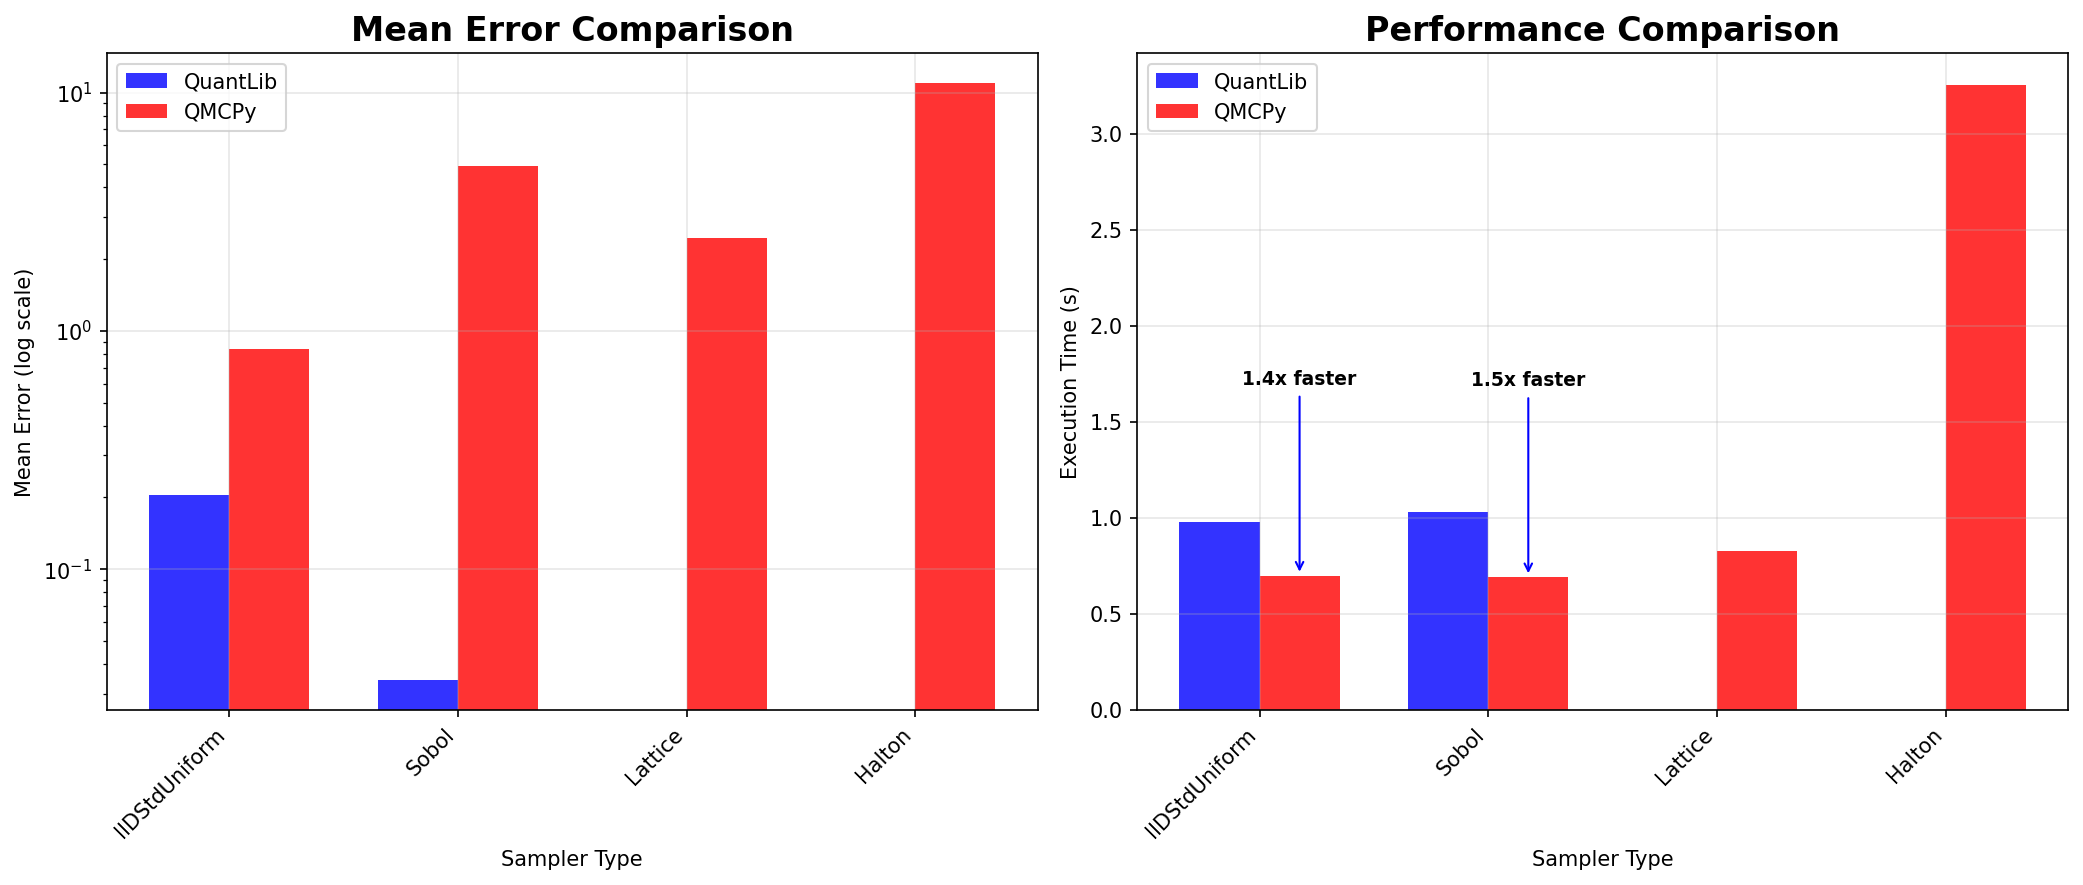
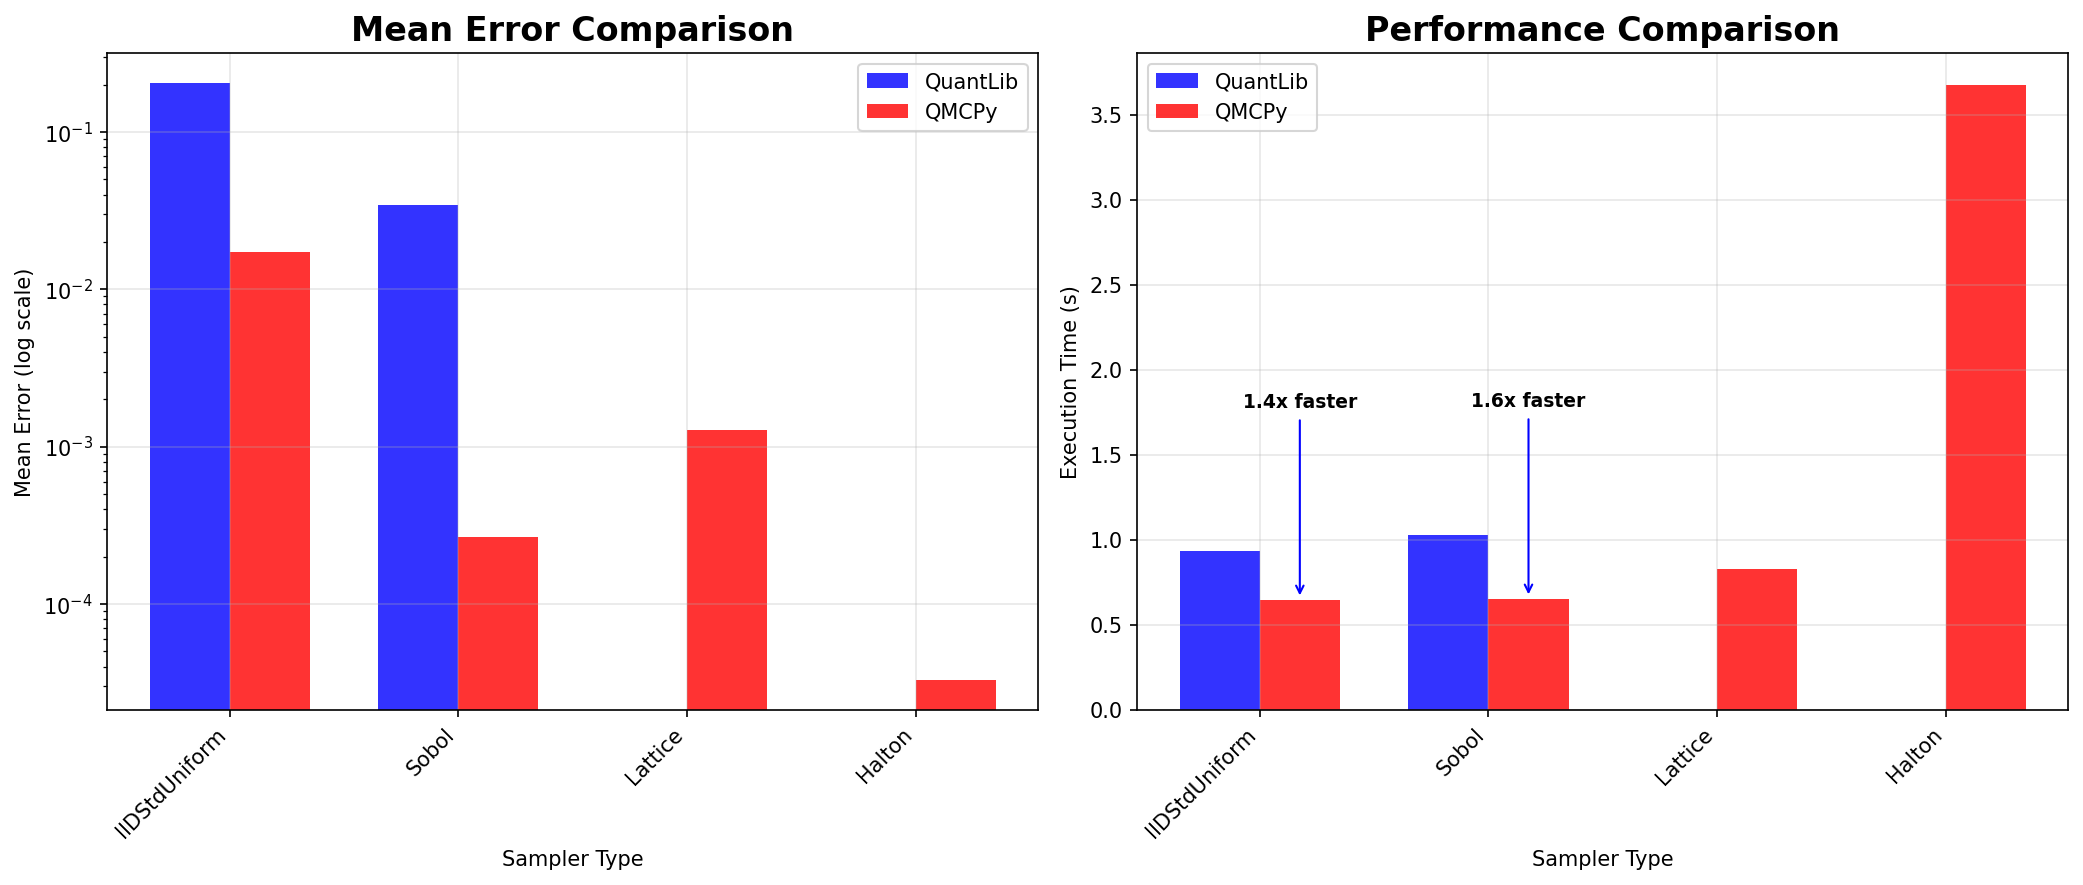
fix

diff --git a/demos/GBM/qmcpy_util_replications.py b/demos/GBM/qmcpy_util_replications.py
@@ -1,22 +1,22 @@
 import qmcpy as qp
 
-def create_qmcpy_sampler(sampler_type, dimension, seed=42):
+def create_qmcpy_sampler(sampler_type, dimension, replications, seed=42):
     """Create a sampler instance based on type and dimension"""
     if sampler_type == 'IIDStdUniform':
-        return qp.IIDStdUniform(dimension, seed=seed)
+        return qp.IIDStdUniform(dimension, replications, seed=seed)
     elif sampler_type == 'Sobol':
-        return qp.Sobol(dimension, seed=seed)
+        return qp.Sobol(dimension, replications, seed=seed)
     elif sampler_type == 'Lattice':
-        return qp.Lattice(dimension, seed=seed)
+        return qp.Lattice(dimension, replications, seed=seed)
     elif sampler_type == 'Halton':
-        return qp.Halton(dimension, seed=seed)
+        return qp.Halton(dimension, replications, seed=seed)
     else:
         raise ValueError(f"Unsupported sampler type: {sampler_type}")
     
 
-def generate_qmcpy_paths(initial_value, mu, diffusion, maturity, n_steps, n_paths, sampler_type='IIDStdUniform', seed=42):
+def generate_qmcpy_paths(initial_value, mu, diffusion, maturity, n_steps, n_paths, sampler_type='IIDStdUniform', replications=1, seed=42):
     """Generate GBM paths using QMCPy with configurable sampler."""
-    sampler = create_qmcpy_sampler(sampler_type, n_steps, seed)
+    sampler = create_qmcpy_sampler(sampler_type, n_steps, replications, seed)
     gbm = qp.GeometricBrownianMotion(sampler, t_final=maturity, initial_value=initial_value, drift=mu, diffusion=diffusion)
     paths = gbm.gen_samples(n_paths)
     return paths, gbm

diff --git a/demos/GBM/outputs/gbm_comparison_table.tex b/demos/GBM/outputs/gbm_comparison_table.tex
@@ -6,12 +6,12 @@
 Method & Sampler & Mean & Std Dev & Mean Absolute & Std Dev  & Mean Time (s)  & Std Dev (s) & Speedup \\
  &  &  &   &  Error &  Error &   & &  \\
 \midrule
-QuantLib & IIDStdUniform & 105.33130511 & 21.46705631 & 0.20419547 & 0.22961748 & 0.97977058 & 0.00000000 & - \\
-QMCPy & IIDStdUniform & 105.96842737 & 4.03136996 & 0.84131773 & 17.20606887 & 0.69803374 & 0.00000000 & 1.40361494 \\
-QuantLib & Sobol & 105.09290730 & 21.05175738 & 0.03420234 & 0.18568144 & 1.03314749 & 0.00000000 & - \\
-QMCPy & Sobol & 110.04157186 & 5.80918796 & 4.91446222 & 15.42825087 & 0.68975755 & 0.00000000 & 1.42045647 \\
-QMCPy & Lattice & 102.68631550 & 6.15412494 & 2.44079413 & 15.08331388 & 0.82558300 & 0.00000000 & 1.18676206 \\
-QMCPy & Halton & 116.08198302 & 21.55953682 & 10.95487338 & 0.32209800 & 3.25633068 & 0.00000000 & 0.30088178 \\
+QuantLib & IIDStdUniform & 105.33130511 & 21.46705631 & 0.20419547 & 0.22961748 & 0.93393791 & 0.00000000 & - \\
+QMCPy & IIDStdUniform & 105.14433550 & 21.38484187 & 0.01722587 & 0.14740305 & 0.64938051 & 0.00000000 & 1.43819825 \\
+QuantLib & Sobol & 105.09290730 & 21.05175738 & 0.03420234 & 0.18568144 & 1.03065195 & 0.00000000 & - \\
+QMCPy & Sobol & 105.12737531 & 21.23370685 & 0.00026567 & 0.00373197 & 0.65544105 & 0.00000000 & 1.42489993 \\
+QMCPy & Lattice & 105.12838774 & 21.24595225 & 0.00127811 & 0.00851343 & 0.82790568 & 0.00000000 & 1.12807283 \\
+QMCPy & Halton & 105.12707683 & 21.23373113 & 0.00003281 & 0.00370770 & 3.67974473 & 0.00000000 & 0.25380508 \\
 \bottomrule
 \end{tabular}
 \end{table}

diff --git a/demos/GBM/averaged_mae.py b/demos/GBM/averaged_mae.py
@@ -1,7 +1,7 @@
 import numpy as np
 import matplotlib.pyplot as plt
 import matplotlib.colors as mcolors
-from qmcpy_util import generate_qmcpy_paths
+from qmcpy_util_replications import generate_qmcpy_paths
 import config as cf
 import plot_util as pu
 from matplotlib.ticker import FixedLocator, FixedFormatter
